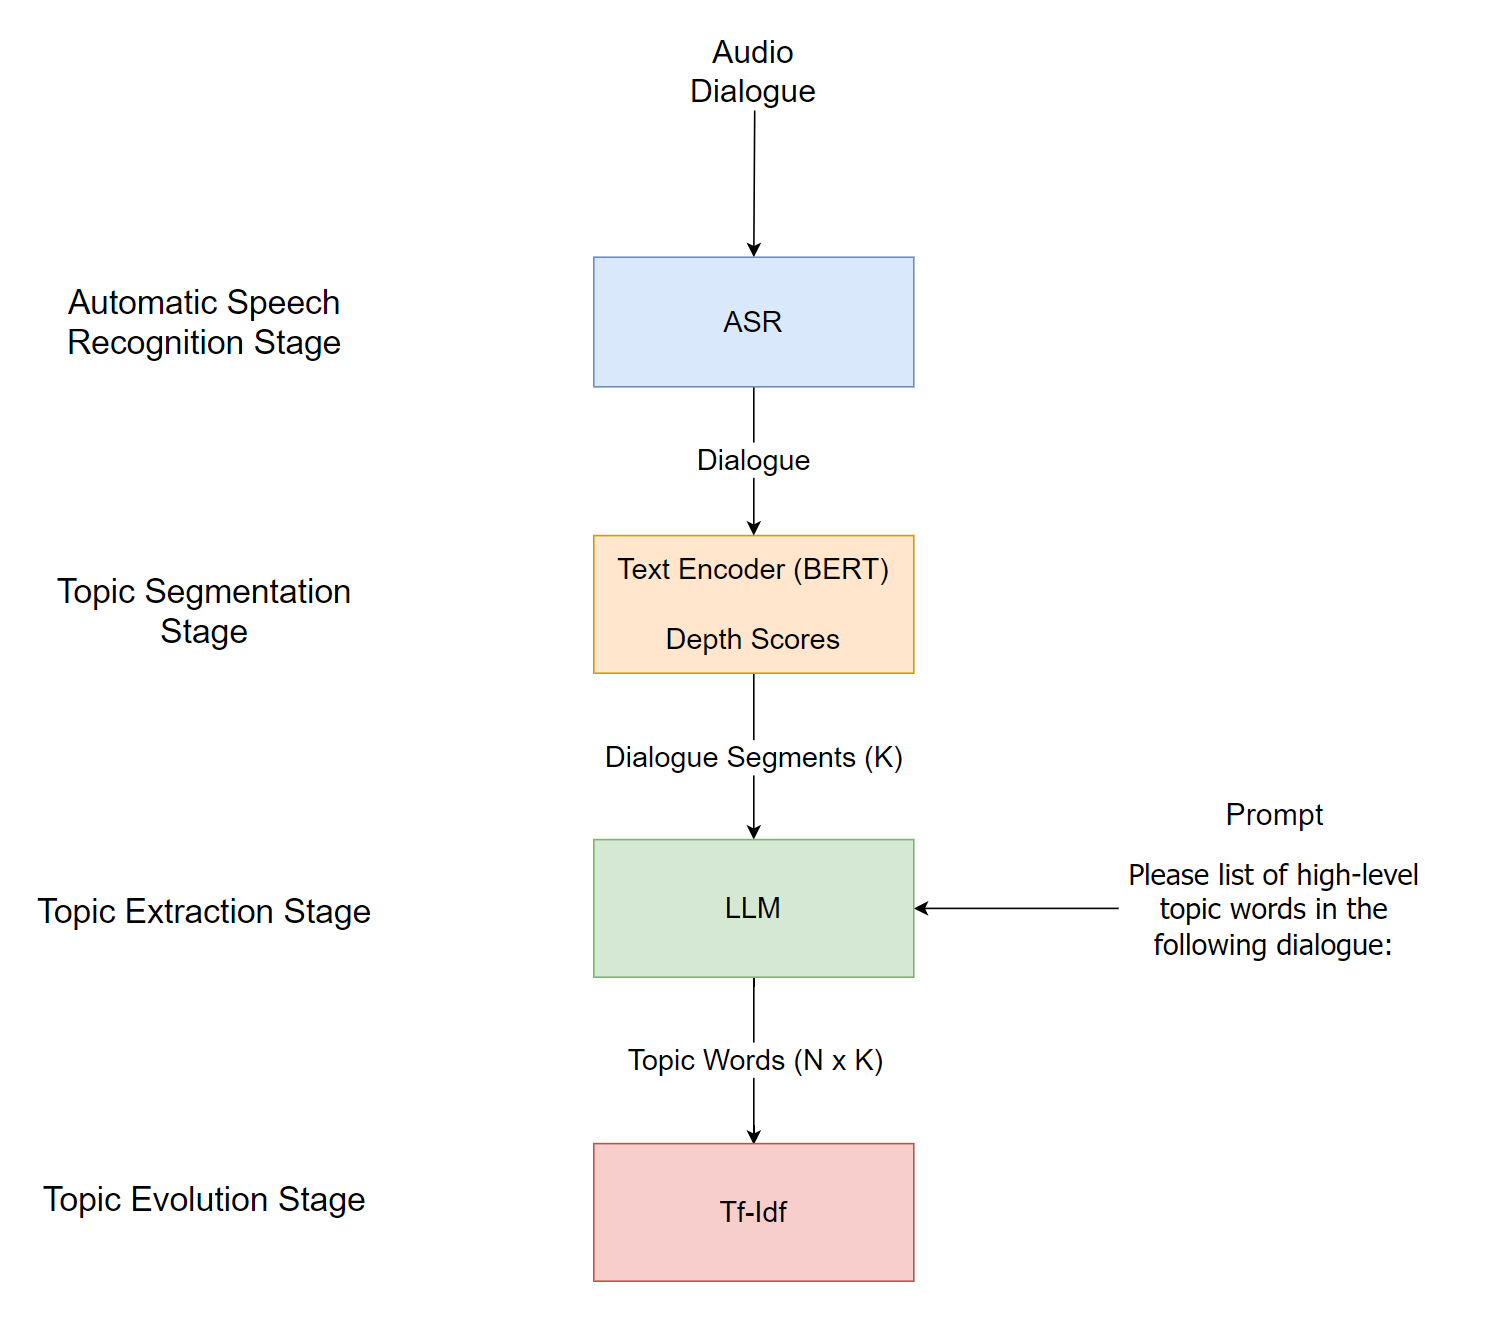
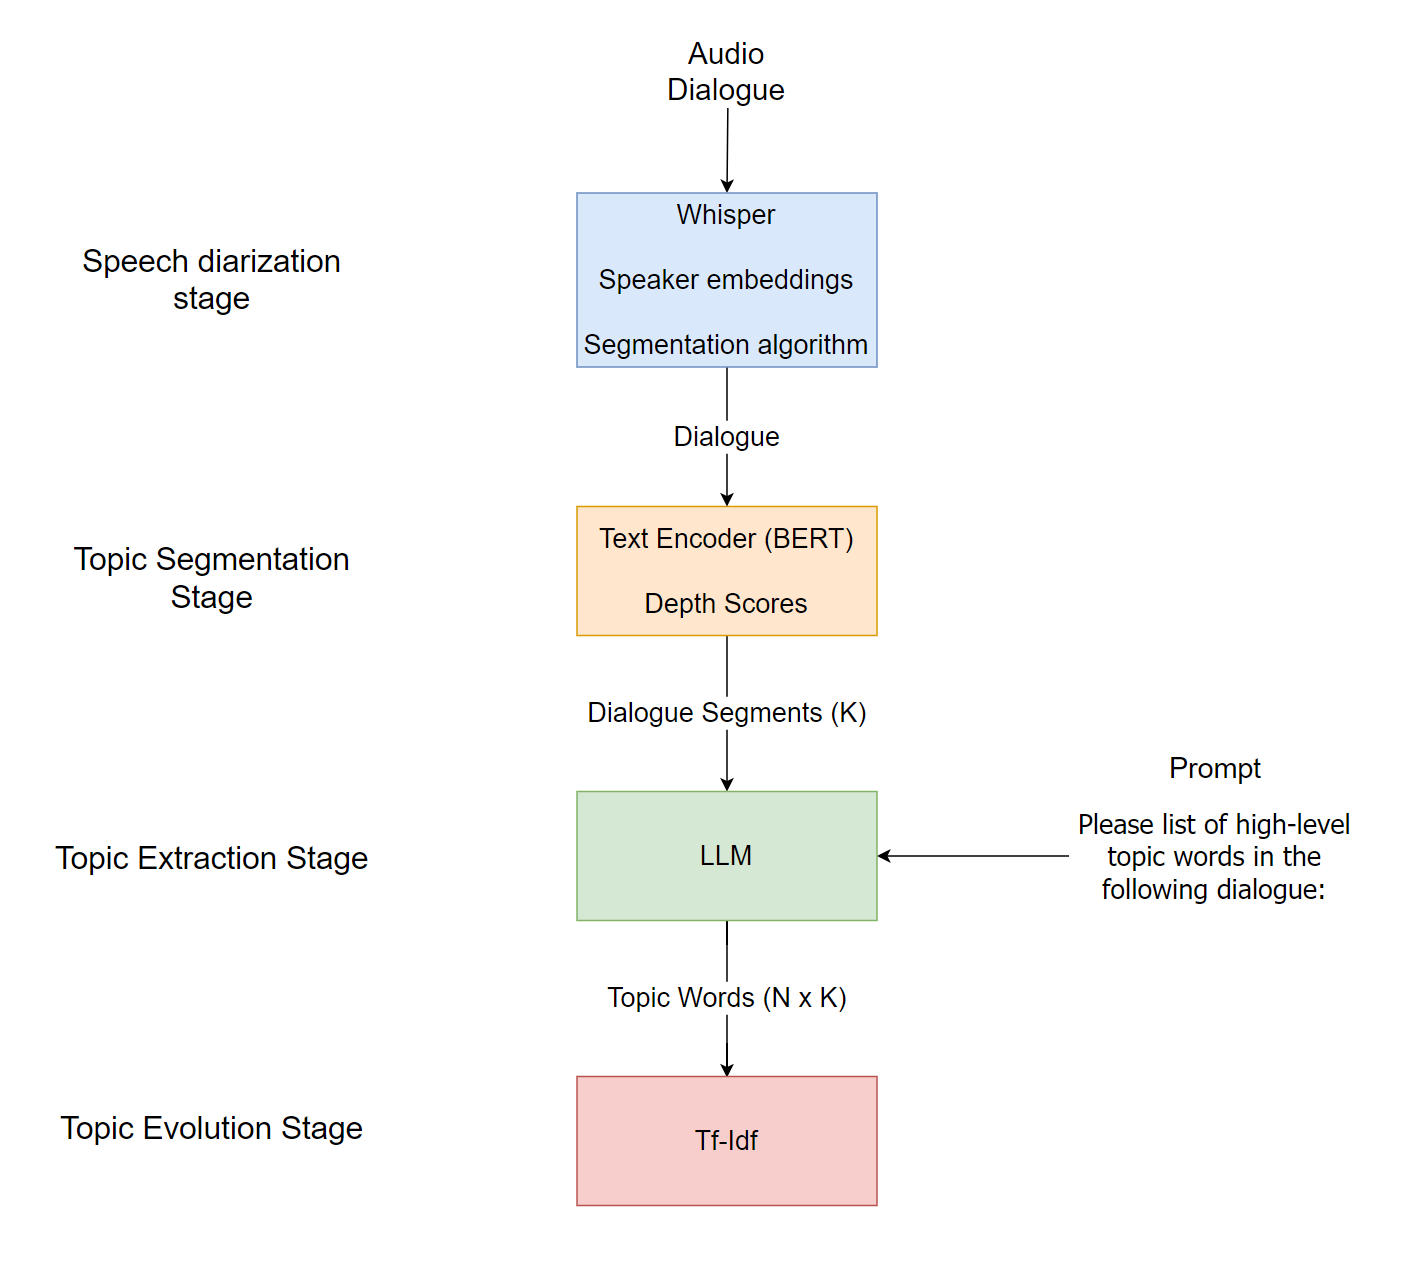
add lib + change picture

diff --git a/paper/main.tex b/paper/main.tex
@@ -428,8 +428,8 @@ For this stage we use:
 \begin{itemize}
     \item OpenAI Whisper \\
     Link to model: \href{https://huggingface.co/openai/whisper-large-v3}{whisper-large-v3};
-    \item pyannote SpeakerDiarization library \\
-    Link to model: \href{https://huggingface.co/pyannote/speaker-diarization-3.0}{speaker-diarization-3.0};
+    \item pyannote - speaker diarization library \cite{pyannote:2023} \\
+    Link to model: \href{https://github.com/pyannote/pyannote-audio}{[pyannote]};
 \end{itemize} 
 
 \section{Dialogue Segmentation}
